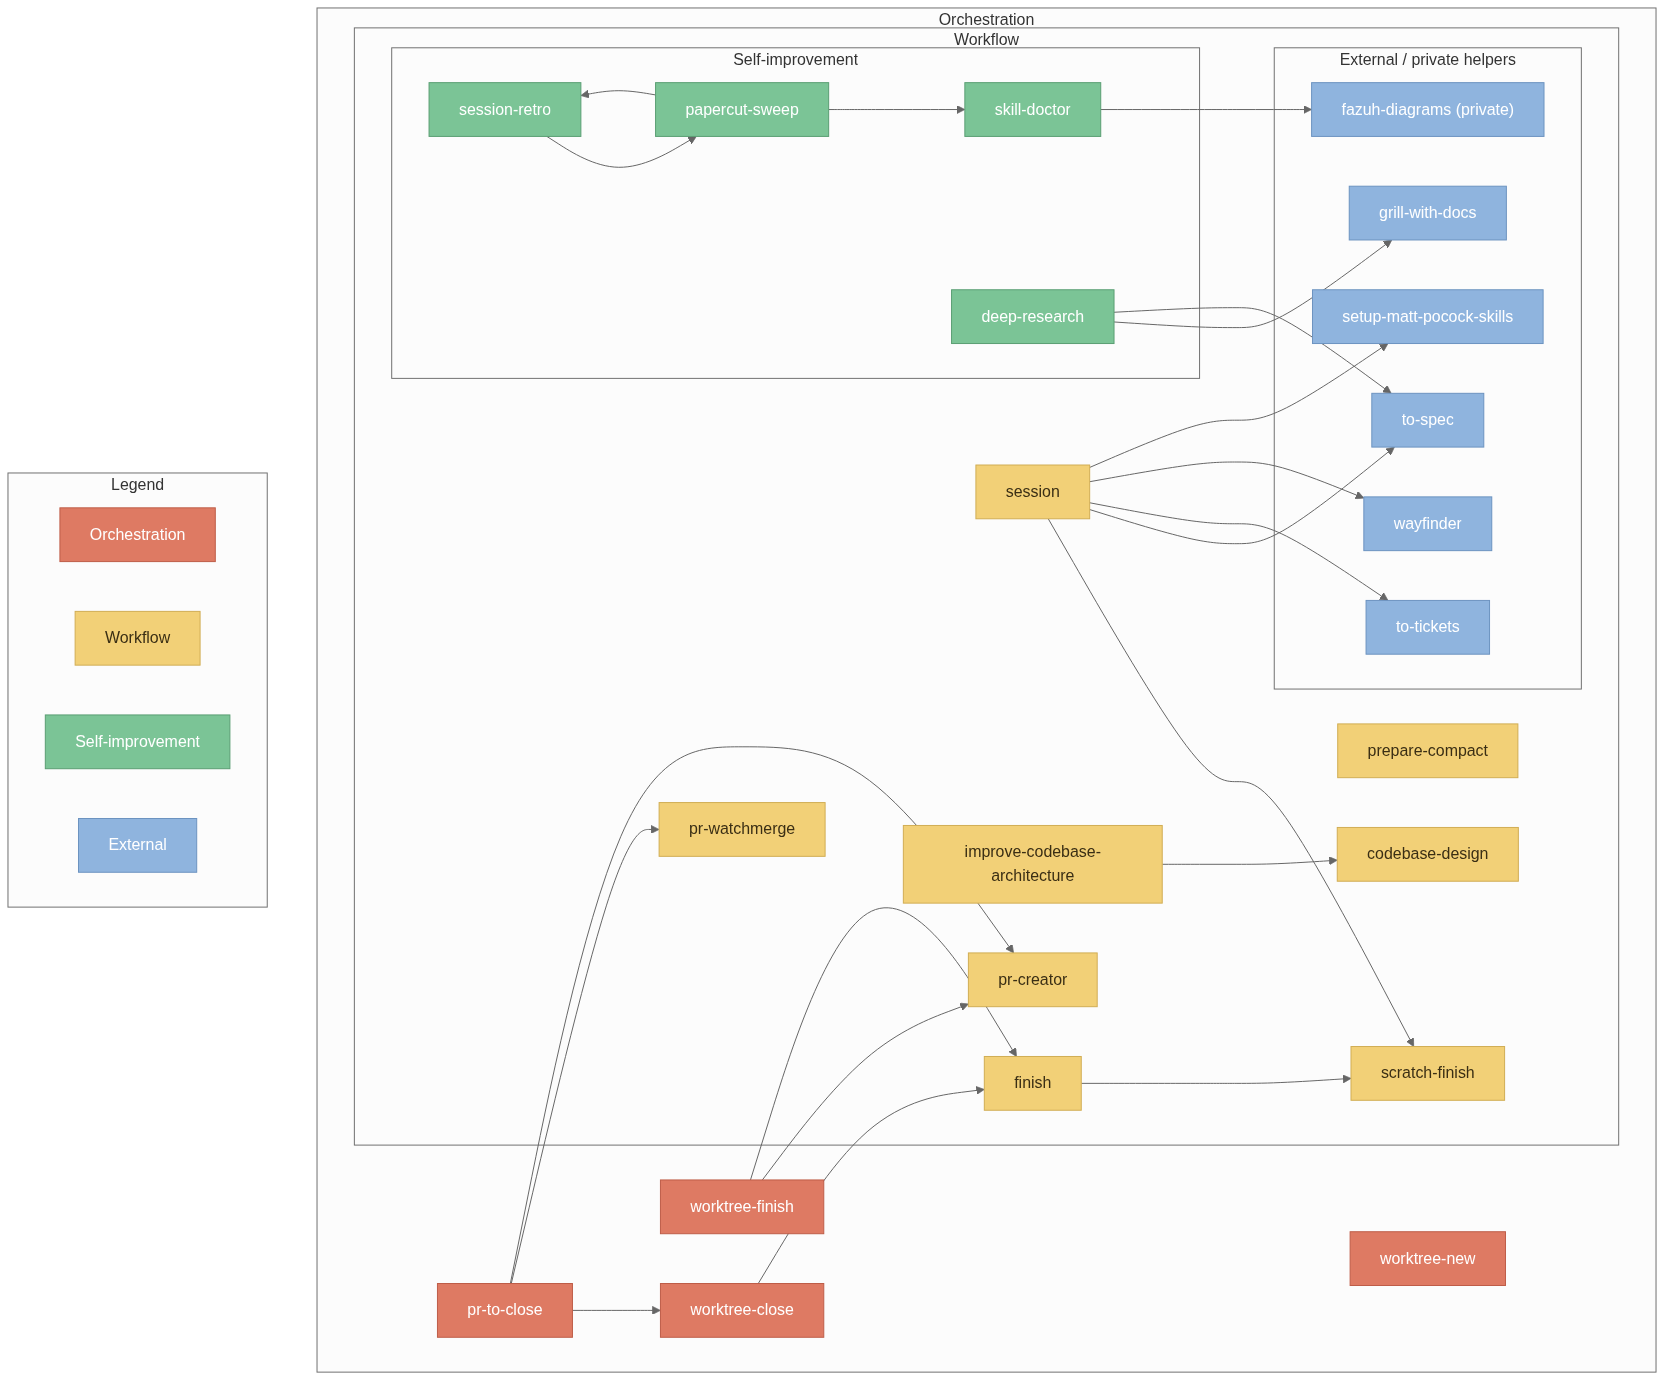
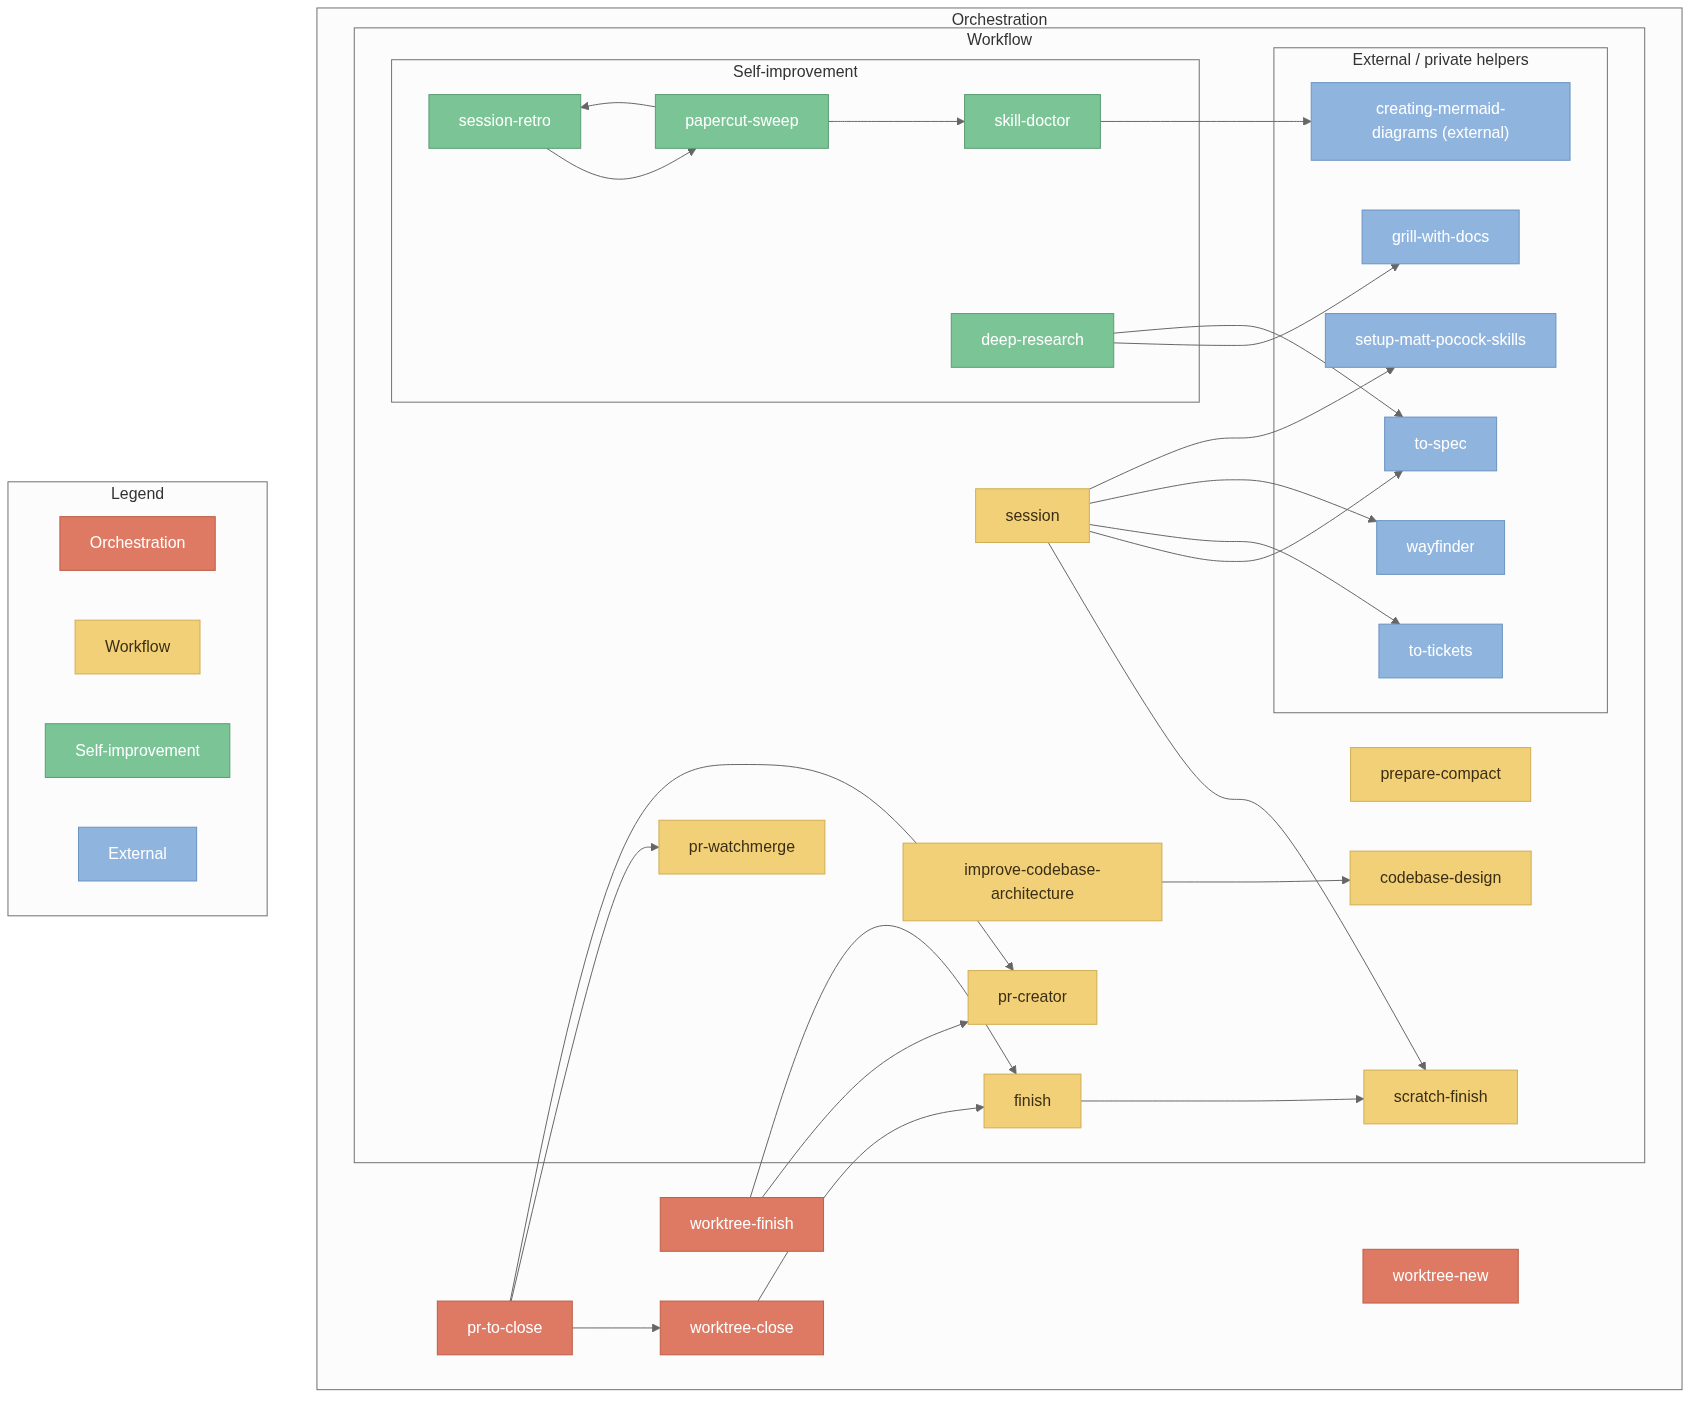
docs: improve docs
Replace private fazuh-diagrams dependency in skill-doctor with
external creating-mermaid-diagrams (Agents365-ai/365-skills),
update orchestration diagram accordingly and drop the useless
standalone diagram.

diff --git a/README.md b/README.md
@@ -7,29 +7,14 @@ edits apply everywhere after a restart.
 ## Install
 
 ```bash
-cd ~/Projects/agent
-./install.sh -g                  # global (~/.config/opencode)
-./install.sh ~/Projects/notes    # or project-level (<project>/.opencode)
+./install.sh -g                # global (~/.config/opencode)
+./install.sh ~/Projects/notes  # project (<project>/.opencode)
+# --dry-run to preview; needs restart after
 ```
 
-`install.sh` links `skills/ agents/ plugins/ commands/` into the target config
-dir and tracks them in `.agent-links.json` (gitignored); `uninstall.sh` removes
-exactly those links.
+Symlinks `skills/ agents/ plugins/ commands/` (tracked in `.agent-links.json`); existing non-symlink files are left alone. Config shadows `~/.agents/skills` — delete shadowed npx copies when `install.sh` warns.
 
-**Do not also install these skills via `npx skills`.** The config root shadows
-`~/.agents/skills`, so npx copies become dead weight that silently drifts from
-source — `install.sh` warns when it finds shadowed copies; delete them when it
-does.
-
-External dependencies are separate repos, still installed with `npx skills`
-(see `~/.config/opencode/scripts/setup-skills.sh`). Many skills here depend on
-[Matt Pocock's engineering skills](https://github.com/mattpocock/skills).
-
-I also use [papercuts](https://github.com/treygoff24/papercuts) for agents to issue frictions/hiccups. Install with [cargo](https://doc.rust-lang.org/cargo/getting-started/installation.html):
-
-```bash
-cargo install papercuts
-```
+Requires [`creating-mermaid-diagrams`](https://github.com/Agents365-ai/creating-mermaid-diagrams) (`npx skills add Agents365-ai/365-skills -g`) for diagram export; `mattpocock/skills` for engineering workflows (see `~/.config/opencode/scripts/setup-skills.sh`). `papercuts` optional: `cargo install papercuts`.
 
 ## Skills
 
@@ -56,6 +41,10 @@ These split on how you'll reach for them — a guide, not hard rules about who m
 - **[workflows](./skills/workflows/SKILL.md)**: The orchestrator's concrete workflows and subagent routing table; loaded before any routing decision.
 - **[scratch-finish](./skills/scratch-finish/SKILL.md)**: Archive a completed `.scratch/` workspace: the completion checklist and archive steps.
 - **[prepare-compact](./skills/prepare-compact/SKILL.md)**: Prepare a session for context compaction: persist state, then clear the goal. Best used with the [opencode-context-watch plugin](https://github.com/FAZuH/opencode-context-watch/).
+- **[deep-research](./skills/deep-research/SKILL.md)**: Investigate against primary sources and capture findings as a single Markdown file; wraps `mattpocock/skills` research methodology via the `research` subagent.
+- **[papercut-sweep](./skills/papercut-sweep/SKILL.md)**: Sweep the global papercuts backlog (`self::` entries) and apply approved self-improvement drafts.
+- **[session-retro](./skills/session-retro/SKILL.md)**: End-of-session retrospective — files `self::` proposals without touching code.
+- **[skill-doctor](./skills/skill-doctor/SKILL.md)**: Audit the skill/agent relation graph (`loads`/`routes`/`documents`), flag `broken-ref`/`collision`/`drift`, optionally render via `creating-mermaid-diagrams`.
 
 ### Referential (loaded by other skills while they run)
 
@@ -71,14 +60,14 @@ These split on how you'll reach for them — a guide, not hard rules about who m
 - **[logging-guidelines](./skills/logging-guidelines/SKILL.md)**: Structured logging with wide events, correlation, and safe redaction.
 - **[design-tradeoffs](./skills/design-tradeoffs/SKILL.md)**: Compare design options with structured tradeoff analysis.
 - **[scheduled-task](./skills/scheduled-task/SKILL.md)**: Manage scheduled tasks through crontab and systemd timers.
+- **[issue-closeout](./skills/issue-closeout/SKILL.md)**: Link merged PRs to resolved issues — closeout comment with PR/SHA, close issues where `Closes #N` does not fire.
+- **[improve-architecture-oop](./skills/improve-architecture-oop/SKILL.md)**: OOP vocabulary overlay for `improve-codebase-architecture` findings and diagrams.
 
 ### Dependency Diagrams
 
 ![Orchestration](docs/diagrams/skill-relations-orchestration.png)
 
 ![Referential dependencies](docs/diagrams/skill-relations-referential.png)
-
-![Standalone](docs/diagrams/skill-relations-standalone.png)
 
 ## License
 

diff --git a/skills/skill-doctor/SKILL.md b/skills/skill-doctor/SKILL.md
@@ -67,7 +67,7 @@ command so their tooling rewrites the copy. Owned roots you may edit directly:
    `findings.jsonl`: keep the original finding line untouched and add a new
    line merging `{"disposition":"proposed-fix|reported|documented|upstream|user-action","note":"..."}`
    into a copy of it.
-5. Optional: render `graph.mmd` via the `fazuh-diagrams` tooling.
+5. Optional: render `graph.mmd` via the `creating-mermaid-diagrams` skill (`~/.agents/skills/creating-mermaid-diagrams`, source `Agents365-ai/365-skills`).
 
 ## Common commands
 
